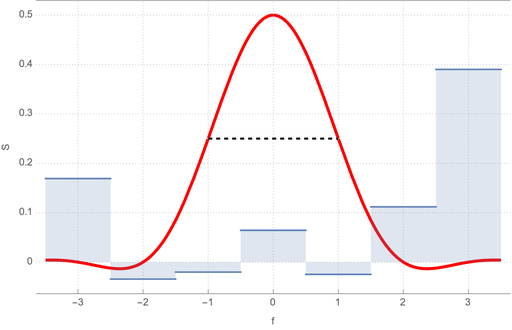
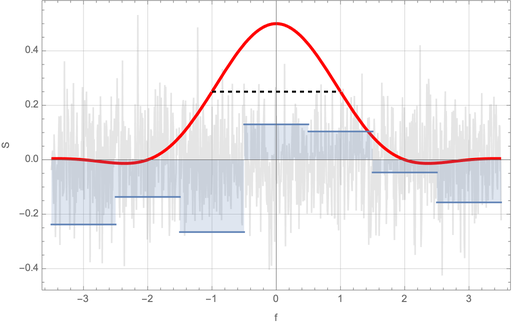
alma stuff

diff --git a/Astronomy/alma/spectral.html b/Astronomy/alma/spectral.html
@@ -17,10 +17,17 @@
     </div>
     
     <div class="content">
+      \(
+        \newcommand{\effbw}[1]{\Delta {#1}_{\rm eff}}
+        \newcommand{\var}{{\rm var}}
+        \newcommand{\cov}{{\rm cov}}
+      \)
+
+
       <h2>Spectral resolution and Hanning smoothing in ALMA.</h2>
       <p>
         The autocorrelation signal from where the spectrum is derived is modified 
-        by a window function called a Hann window. We will denote  \(w \leftrightharpoons W\), repectively, 
+        by a symmetric window function called a Hann window. We will denote  \(w \leftrightharpoons W\), repectively, 
         the Hann window function in the lag-autocorrelation domain and its Fourier transform, 
         in the frequency domain. That is 
         \begin{equation}
@@ -30,30 +37,56 @@
        <p>
         Explicitely, Hann window and its Fourier transform are 
       \begin{equation}
-      w(x)=\begin{cases}
-      \cos^2\left(\pi x\right)&|x|\le1/2\\
-      0& \neg \end{cases} \leftrightharpoons \frac{\sin(\pi f)}{2\pi f(1-f^2)}=W(f)~~.
+      \boxed{w(x/T)=\begin{cases}
+      \cos^2\left(\pi x/T\right)&|x/T|\le 1/2\\
+      0& \neg \end{cases} }\leftrightharpoons \boxed{\frac{T\sin(\pi \xi)}{2\pi \xi(1-\xi^2)}=W(fT)T}~~,\label{eq-fourier-hann}
       \end{equation} 
+      where the \(\xi=f T\) and the FWHM of the function on the right is \(2/T\).
+      We will refer to the function on the left (in the lag-autocorrelation domain)
+       as the "Hann-window" and the second (in the frequency-spectral domain) as the "Hann-function."
     </p>
 
     <p>We will assume that the astronomical spectral signal consist of a deterministic signal plus white noise, that is, 
     \begin{equation} S  = \mathcal{D}+\partial B(\sigma^2)\label{eq-S}~~,\end{equation} 
     where the white noise has the property that, for two square integrable functions \(g\) and \(h\),
-    \begin{equation}{\rm cov}\left(\int_{-\infty}^\infty g(f)\partial B(\sigma^2) (f) df,
+    \begin{equation}
+    {\rm cov}\left(\int_{-\infty}^\infty g(f)\partial B(\sigma^2) (f) df,
     \int_{-\infty}^\infty h(f)\partial B(\sigma^2) (f) df\right)=
-        \sigma^2\int_{-\infty}^\infty g(f)h(f)df~~.\label{eq-cov}\end{equation}
-      In particular, this means that the integral of the signal integrated over an interval \(\Delta f\) has variance 
-   \begin{equation}{\rm var}\left(\int_{\Delta f}S(f)df\right)=\sigma^2\Delta f\label{eq-var}\end{equation}.
- Since in the following we will be mostly interested in the noise of the signal, we will assume \(\mathcal{D}\equiv 0\).</p>
+        \sigma^2\int_{-\infty}^\infty g(f)h(f)df~~.\label{eq-cov}
+        \end{equation}
+      In particular, this means that the signal averaged over a square filter of width \(\Delta f\) has variance 
+   \begin{equation}
+   {\rm var}\left(\int_{\Delta f}\left(\frac{1}{\Delta f}\right)S(f)df\right)=\frac{\sigma^2}{\Delta f}~~.\label{eq-var}
+   \end{equation}
 
+ Since in the following we will be mostly interested in the noise of the signal, we will assume \(\mathcal{D}\equiv 0\).</p>
   <p>
+    Refer to the figure below. It represents a section of an spectrum with noisy channels. The 
+    value of each channel is given by the convolution of the Hann-function with the true spectrum, represented in gray. 
+    Note that the true effective bandwidth of each channel depends on the FWHM of the convolution function, and that this
+    convolution creates some statistical correlation between channels.  
     <figure>
     <img src="Astronomy/alma/gg.png"
          alt="illustration">
-    <figcaption>The Fourier transform Hann</figcaption>
+    <figcaption><em>The red curve shows the Hann-function  with an FWHM = \(2\Delta \nu\), where \(\Delta\nu\) is the channel size.
+    The value of each channel represents the convolution of the true signal (\ref{eq-S}, represented by the noisy 
+  gray line in the background) with the Hann-function.</em></figcaption>
 </figure>
 </p>
-    
+
+<p>We will define the effective bandwidth of a filter analogously as the width \(\Delta f\) 
+  appears in the case of a square filter (\ref{eq-var}):
+  \begin{equation}
+  \effbw{f} = \frac{\sigma^2}{\var\left( W \star S\right)}~~, \label{eq-effbw}
+  \end{equation}
+  where \(\star\) represents convolution and the integral of the filter function \(W\) 
+   is assumed to be 1. Therefore, the effective bandwidth of the Hann-function filter is 
+  \begin{equation}\effbw{f} = \frac{\sigma^2}{\sigma^2 T \int^\infty_{-\infty}W(\xi)\star W(\xi)d\xi}
+            = \frac{1}{T}\int_{-T/2}^{T/2}\cos(\pi x)^4dx 
+            = \frac{8}{3T}=\frac{4\,{\rm FWHM}}{3}~~.
+  \end{equation}
+  In particular, if the FWHM is two times the channel size, \(\effbw{f}=(8/3)\times\Delta\nu \approx 2.667 \times\Delta\nu\).
+</p>    
     <div class="footer">
     </div>
   </body>
